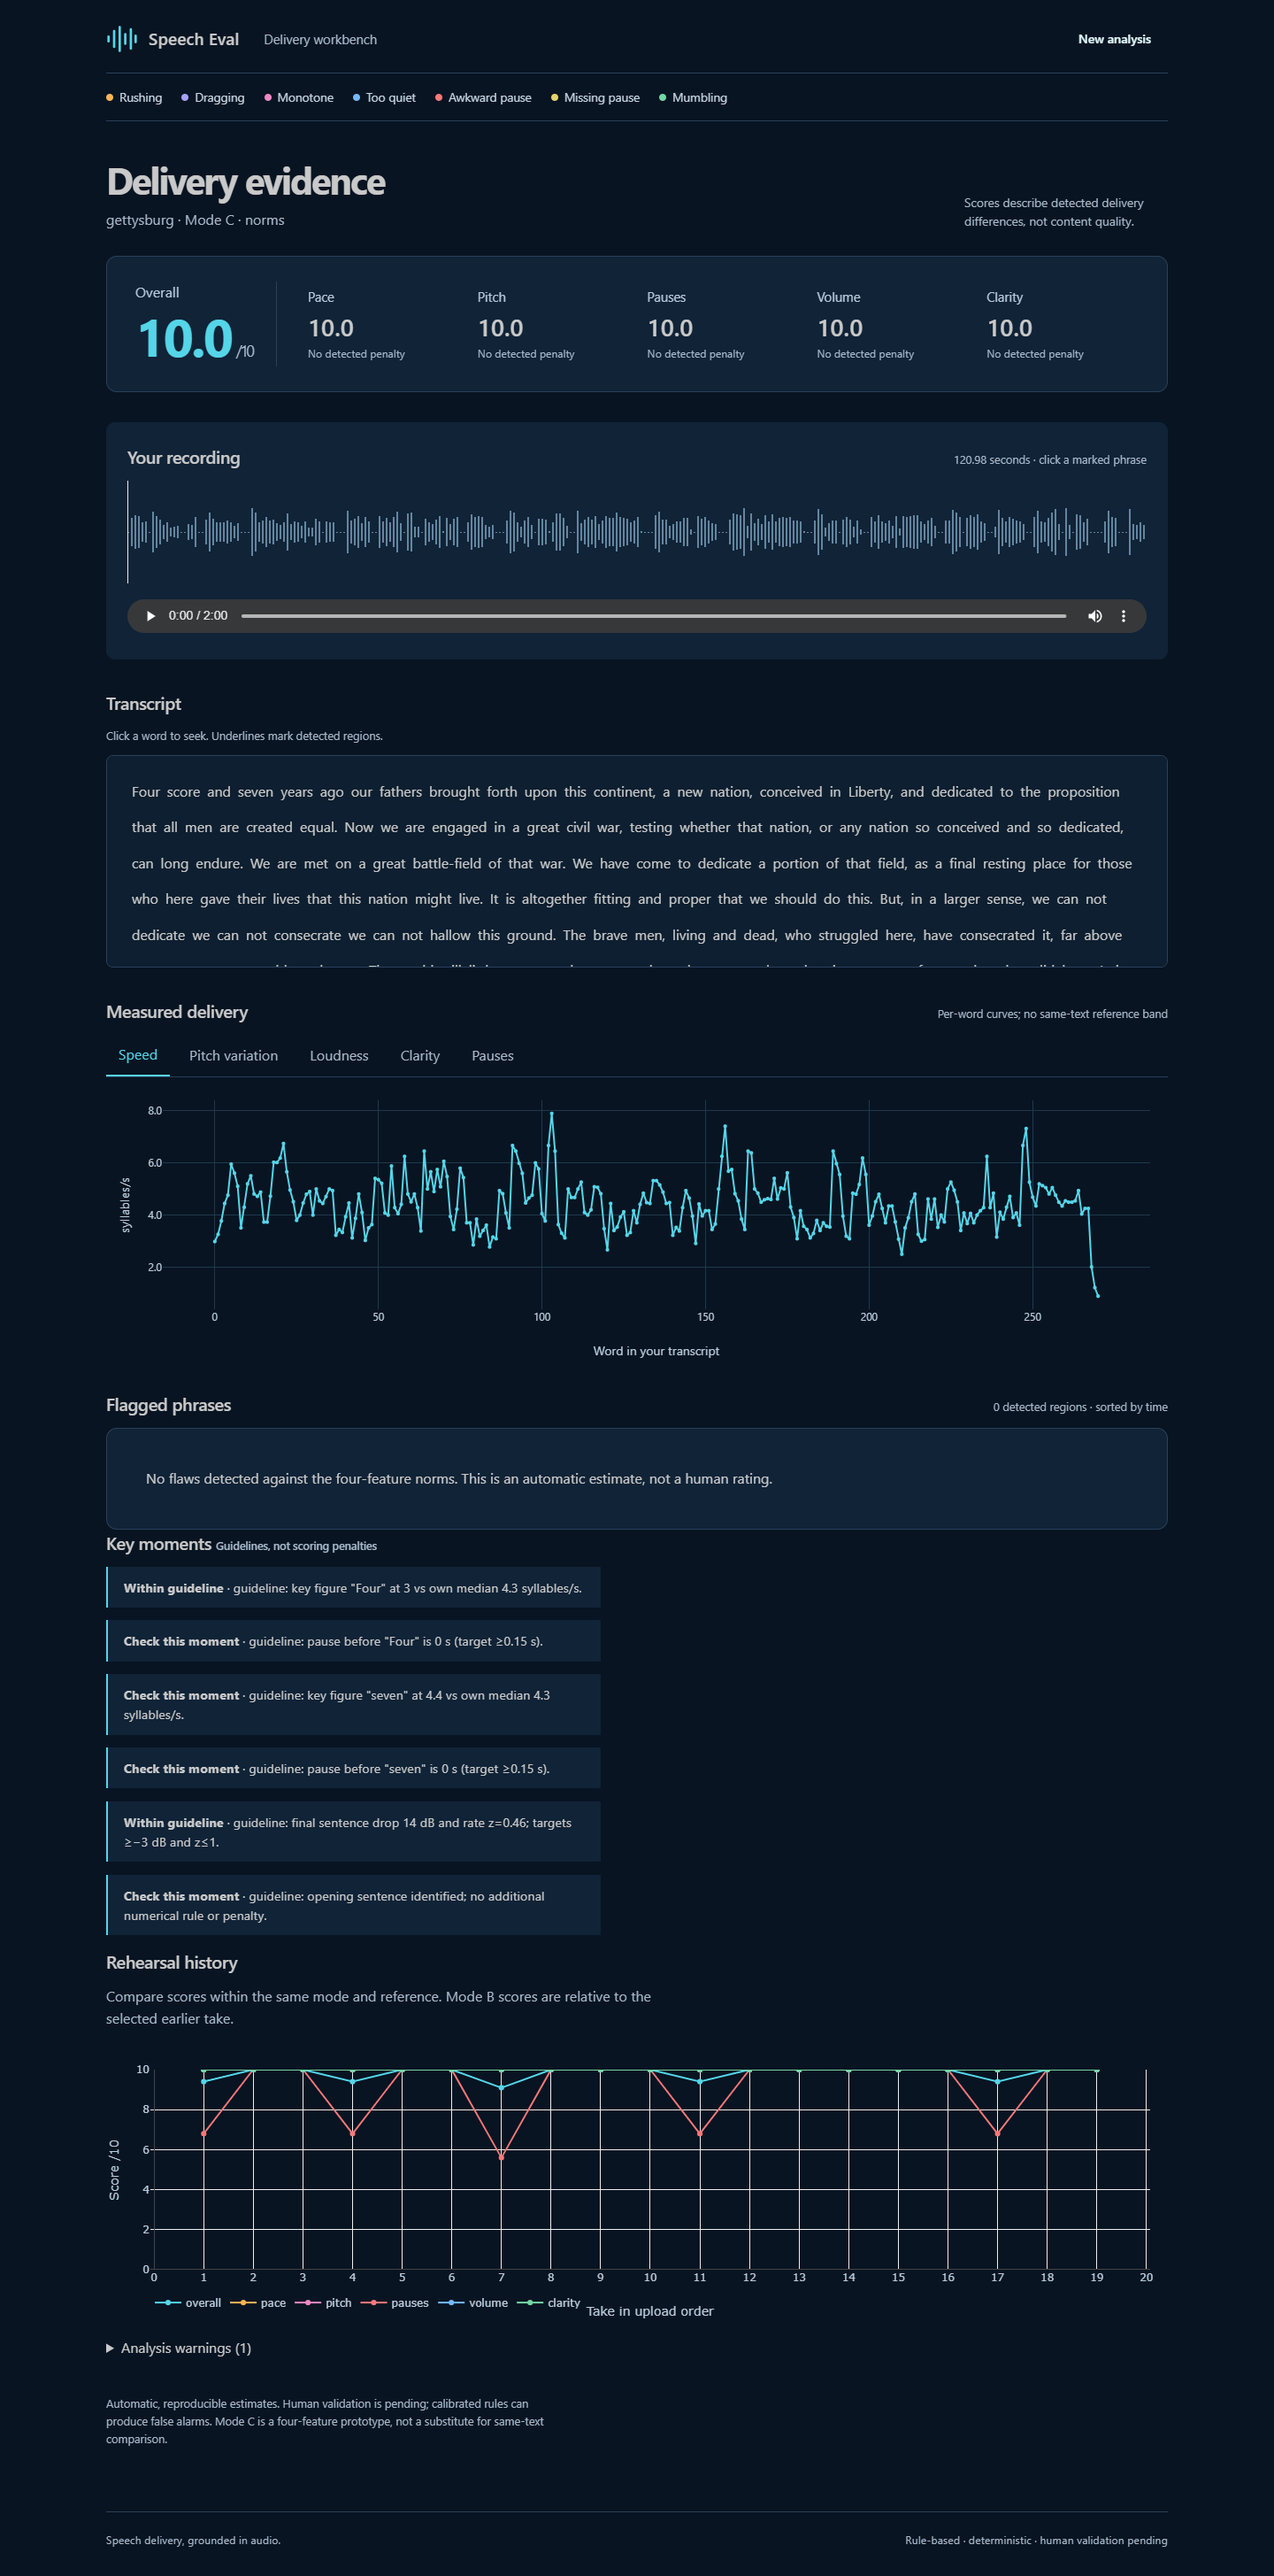
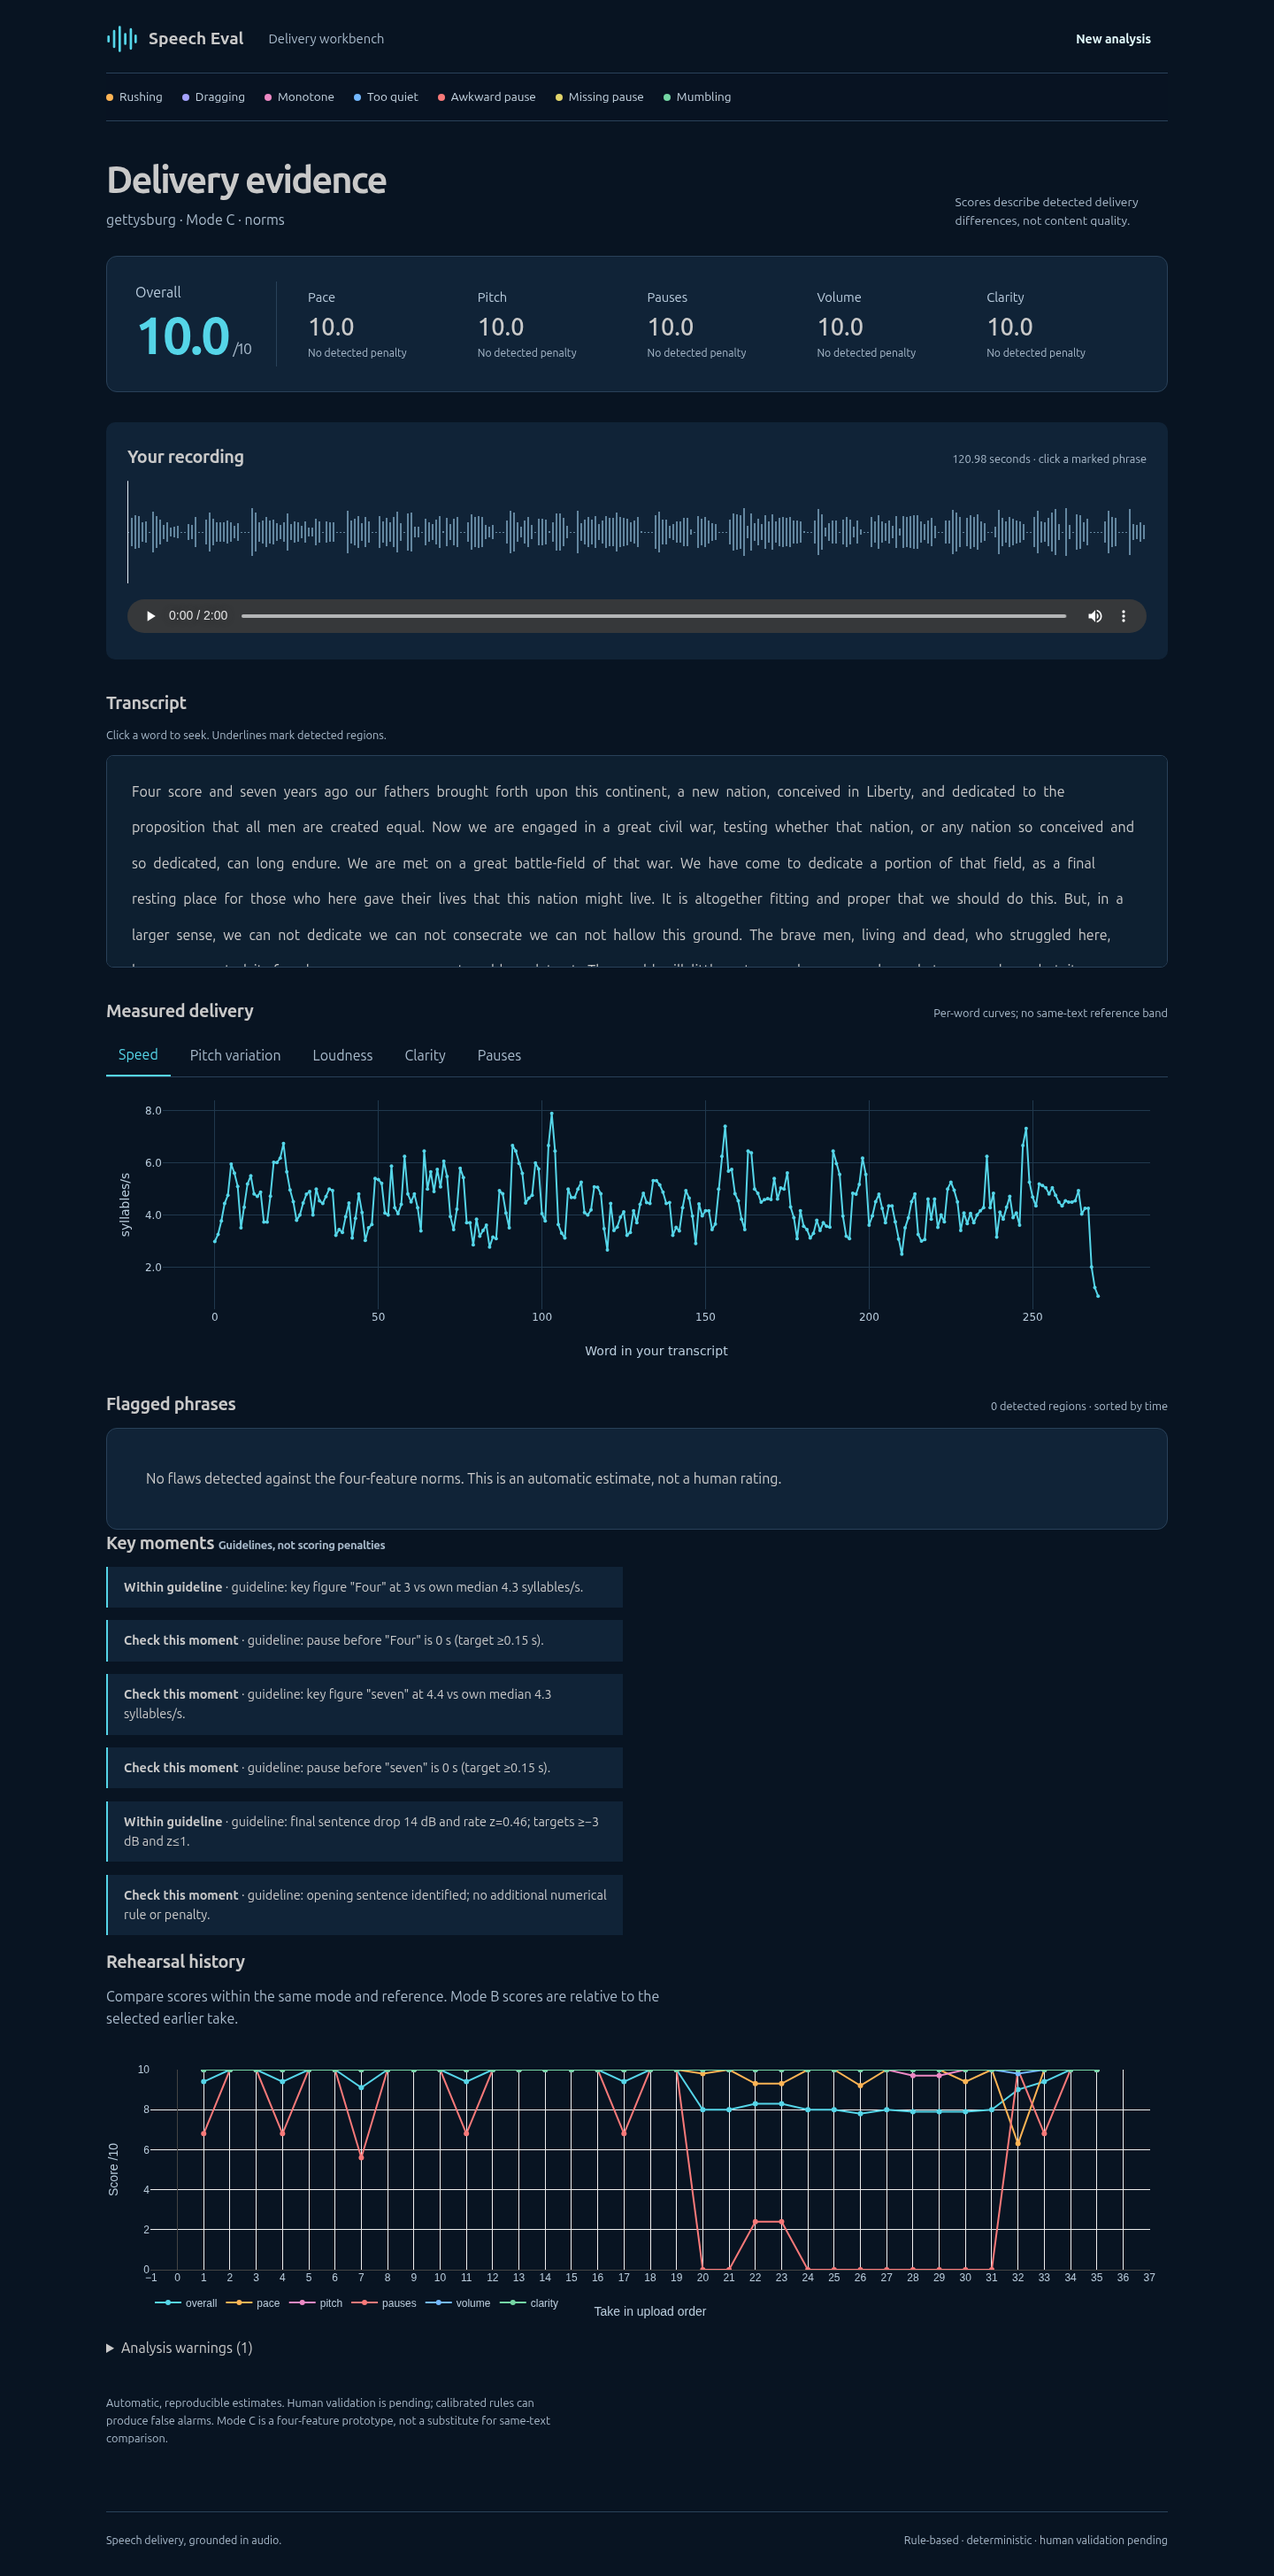
Fix waveform label overlap with accessible exact-width intervals

diff --git a/web/tests/genuine.spec.ts b/web/tests/genuine.spec.ts
@@ -24,6 +24,7 @@ test('genuine Gettysburg B hit and report screenshots use recorder take02 vs tak
   await page.getByTestId('flaw-card').nth(region).getByRole('button',{name:/Awkward pause.*29.90/}).click();
   const hit=page.getByTestId('flaw-card').nth(region);
   await expect(hit).toHaveAttribute('aria-current','true');
+  await expect(page.getByTestId('waveform').locator('[part~="region"]').nth(region)).toHaveAttribute('data-selected','true');
   await expect(hit.locator('p')).toHaveText(job.analysis.regions[region].display_explanation);
   await expect(hit).toContainText('larger sense,');
   await expect(hit.getByRole('button',{name:'Baseline (same words)',exact:true})).toBeEnabled();
@@ -37,8 +38,48 @@ test('genuine Gettysburg B hit and report screenshots use recorder take02 vs tak
     job_id:id,recording_id:job.analysis.recording_id,mode:'B',duration_s:83.03,
     detected_interval_s:[29.9,31.47],label_interval_s:[29.9,31.47],primary_iou:1,
     explanation:job.analysis.regions[region].display_explanation,
[2 lines of base64/hex data omitted]
     screenshots:{'ui_results.png':sha256(reportPath('img/ui_results.png')),
                  'ui_region.png':sha256(reportPath('img/ui_region.png'))},page_errors:errors,
   },null,2)+'\n');
 });
+
+for(const width of [1440,390]){
+  test(`genuine waveform markers have hover labels and exact widths at ${width}px`,async({page,request})=>{
+    await page.setViewportSize({width,height:1000});
+    const id='0aae3748f747b13e89697e17';
+    const job=await (await request.get(`/api/analyses/${id}`)).json();
+    await page.goto(`/results/${id}`);
+    await expect(page.getByTestId('waveform')).toHaveAttribute('data-ready','true',{timeout:30000});
+    const regions=page.getByTestId('waveform').locator('[part~="region"]');
+    await expect(regions).toHaveCount(9);
+    // Removing text inside each interval prevents overlapping/wrapped labels.
+    expect(await regions.allTextContents()).toEqual(Array(9).fill(''));
+    const shapes=await regions.evaluateAll(elements=>elements.map(el=>({
+      width:el.getBoundingClientRect().width,parentWidth:el.parentElement!.getBoundingClientRect().width,
+      title:el.getAttribute('title'),label:el.getAttribute('aria-label'),
+      color:getComputedStyle(el).backgroundColor,
+    })));
+    shapes.forEach((shape,i)=>{
+      const r=job.analysis.regions[i];
+      expect(shape.width).toBeCloseTo(shape.parentWidth*(r.end-r.start)/job.analysis.duration_s,0);
+      expect(shape.title).toContain(`${r.start.toFixed(2)}–${r.end.toFixed(2)} s`);
+      expect(shape.label).toBe(shape.title);
+      expect(shape.color).not.toBe('rgba(0, 0, 0, 0)');
+    });
+    const rush=job.analysis.regions.findIndex((r:{type:string})=>r.type==='rushing');
+    expect(rush).toBeGreaterThanOrEqual(0);
+    await regions.nth(rush).focus();
+    await regions.nth(rush).press('Enter');
+    await expect(page.getByTestId('flaw-card').nth(rush)).toHaveAttribute('aria-current','true');
+    expect(await regions.nth(rush).getAttribute('title')).toContain('Rushing');
+    expect(await page.getByTestId('waveform').locator('[part~="region"]').nth(rush).evaluate(el=>getComputedStyle(el).backgroundColor)).toBe('rgba(255, 180, 84, 0.333)');
+    const proofPath=reportPath('waveform_ui_verification.json');
+    const proof=width===1440?{schema:'waveform-ui-verification/v1',checks:{}}:
+      JSON.parse(fs.readFileSync(proofPath,'utf8'));
+    proof.checks[String(width)]={job_id:id,region_count:9,inline_labels:0,
+      actual_interval_widths_verified:true,hover_and_accessible_labels:true,
+      keyboard_selection:true,legend_colours_preserved:true,shapes};
+    fs.writeFileSync(proofPath,JSON.stringify(proof,null,2)+'\n');
+  });
+}

diff --git a/web/src/Evidence.tsx b/web/src/Evidence.tsx
@@ -18,8 +18,19 @@ export function Waveform({analysis,onSelect,seek,selected}:{analysis:Analysis;on
       waveColor:'#63869f',progressColor:'#55d5e8',cursorColor:'#e5eff7',height:116,barWidth:2,barGap:2,normalize:false,plugins:[regions]});
     wave.current=instance;
     instance.on('ready',()=>setReady(true));
-    instance.on('decode',()=>analysis.regions.forEach((r,i)=>regions.addRegion({id:String(i),start:r.start,end:r.end,
-      color:flaws[r.type].color+'55',content:flaws[r.type].label,drag:false,resize:false})));
+    instance.on('decode',()=>analysis.regions.forEach((r,i)=>{
+      // Text inside narrow intervals wraps/overlaps. The coloured interval keeps
+      // its actual time width; its type and exact times are available on hover.
+      const region=regions.addRegion({id:String(i),start:r.start,end:r.end,
+        color:flaws[r.type].color+'55',drag:false,resize:false});
+      const element=region.element;if(!element)return;
+      const label=`${flaws[r.type].label} · ${r.start.toFixed(2)}–${r.end.toFixed(2)} s`;
+      element.title=label;element.setAttribute('aria-label',label);
+      element.setAttribute('role','button');element.tabIndex=0;
+      element.addEventListener('keydown',event=>{
+        if(event.key==='Enter'||event.key===' '){event.preventDefault();onSelect(i);instance.setTime(r.start);}
+      });
+    }));
     regions.on('region-clicked',(r,event)=>{event.stopPropagation();onSelect(Number(r.id));instance.setTime(r.start);});
     const error=(e:Error)=>{if(e.name!=='AbortError')setError(e.message);};
     instance.on('error',error);
@@ -30,7 +41,6 @@ export function Waveform({analysis,onSelect,seek,selected}:{analysis:Analysis;on
       if(!r.element)return;
       r.element.dataset.selected=String(Number(r.id)===selected);
       r.element.style.outline=Number(r.id)===selected?'2px solid #e5eff7':'';
-      r.element.style.minWidth='3px';
     });
     update();return wave.current?.on('ready',update);
   },[selected,analysis]);

diff --git a/NEXT.md b/NEXT.md
@@ -20,7 +20,14 @@ Submission deadline: October 13.
    Page-one summary now includes genuine A/B counts. Six-page PDF repeated
    byte-identically and all pages inspected. Docker startup resolved by retaining
    only stale zero-byte IPC directories; no Docker/project data deleted.
-4. Fix waveform label overlap without widening scientific intervals: next.
+4. Waveform overlap fixed: type/time on hover and accessible labels; no text
+   inside intervals and no artificial minimum width. Legend colours retained,
+   keyboard Enter/Space selects flags. Exact widths/labels verified at1440/390px;
+   all six Playwright tests and 303 host tests pass. Web-only Docker rebuild;
+   genuine/scientific JSON, frozen detector/config and labels unchanged.
+   Fresh read-only review: no Critical/Important issues. Deferred minor:
+   the 390px test's proof output currently assumes the desktop-width test ran
+   first; use the full suite to refresh both entries, rather than a selected test.
 5. Final no-spot-check/no-independent-raters wording: next.
 
 ## Genuine takes — complete
@@ -77,7 +84,7 @@ are in API history with working tracks; eight genuine participant audio
 endpoints work. `data/human/verification.json` contains the hashes/checks.
 Evaluation SHA256:
[1 lines of base64/hex data omitted]
-Latest host suite: 299 tests passed. Report: six A4 pages, repeated PDF bytes
+Latest host suite: 303 tests passed. Report: six A4 pages, repeated PDF bytes
 identical, every page inspected. Frozen code/config/audio hashes remain intact.
 
 ## Open your voice in the dashboard

diff --git a/reports/phase09_ui.md b/reports/phase09_ui.md
@@ -59,6 +59,12 @@ activated: the recording test uses Chromium's isolated fake audio device.
 
 ## Screenshots
 
+Pre-video rerun, 2026-10-12: six Playwright tests pass against production Docker
+port8080, including genuine Mode-B hit, exact waveform interval widths,
+non-overlapping hover labels and keyboard selection at1440px/390px.
+No real microphone was used (the recording test uses Chromium's fake device).
+Current width/label checks: `waveform_ui_verification.json`.
+
 ![Upload](img/ui_upload.png)
 The current report/README screenshots below now show genuine recorder
 Gettysburg take02 versus own take01 in frozen v1 Mode B, not this historical

diff --git a/README.md b/README.md
@@ -13,6 +13,11 @@ This screenshot uses the recorder's genuine take02 in frozen v1 Mode B against
 take01, not a LibriVox smoke-test upload. The selected declared awkward pause is
 29.90-31.47 s at larger|sense. [Screenshot provenance](reports/human_ui_verification.json).
 
+Waveform intervals use the legend colours and their actual start/end widths.
+Hover a coloured interval for its type/time label; Tab then Enter/Space selects
+it by keyboard. Labels are not printed inside narrow regions, so they cannot
+overlap or wrap. [Desktop/mobile checks](reports/waveform_ui_verification.json).
+
 ## Quickstart
 
 ```sh
